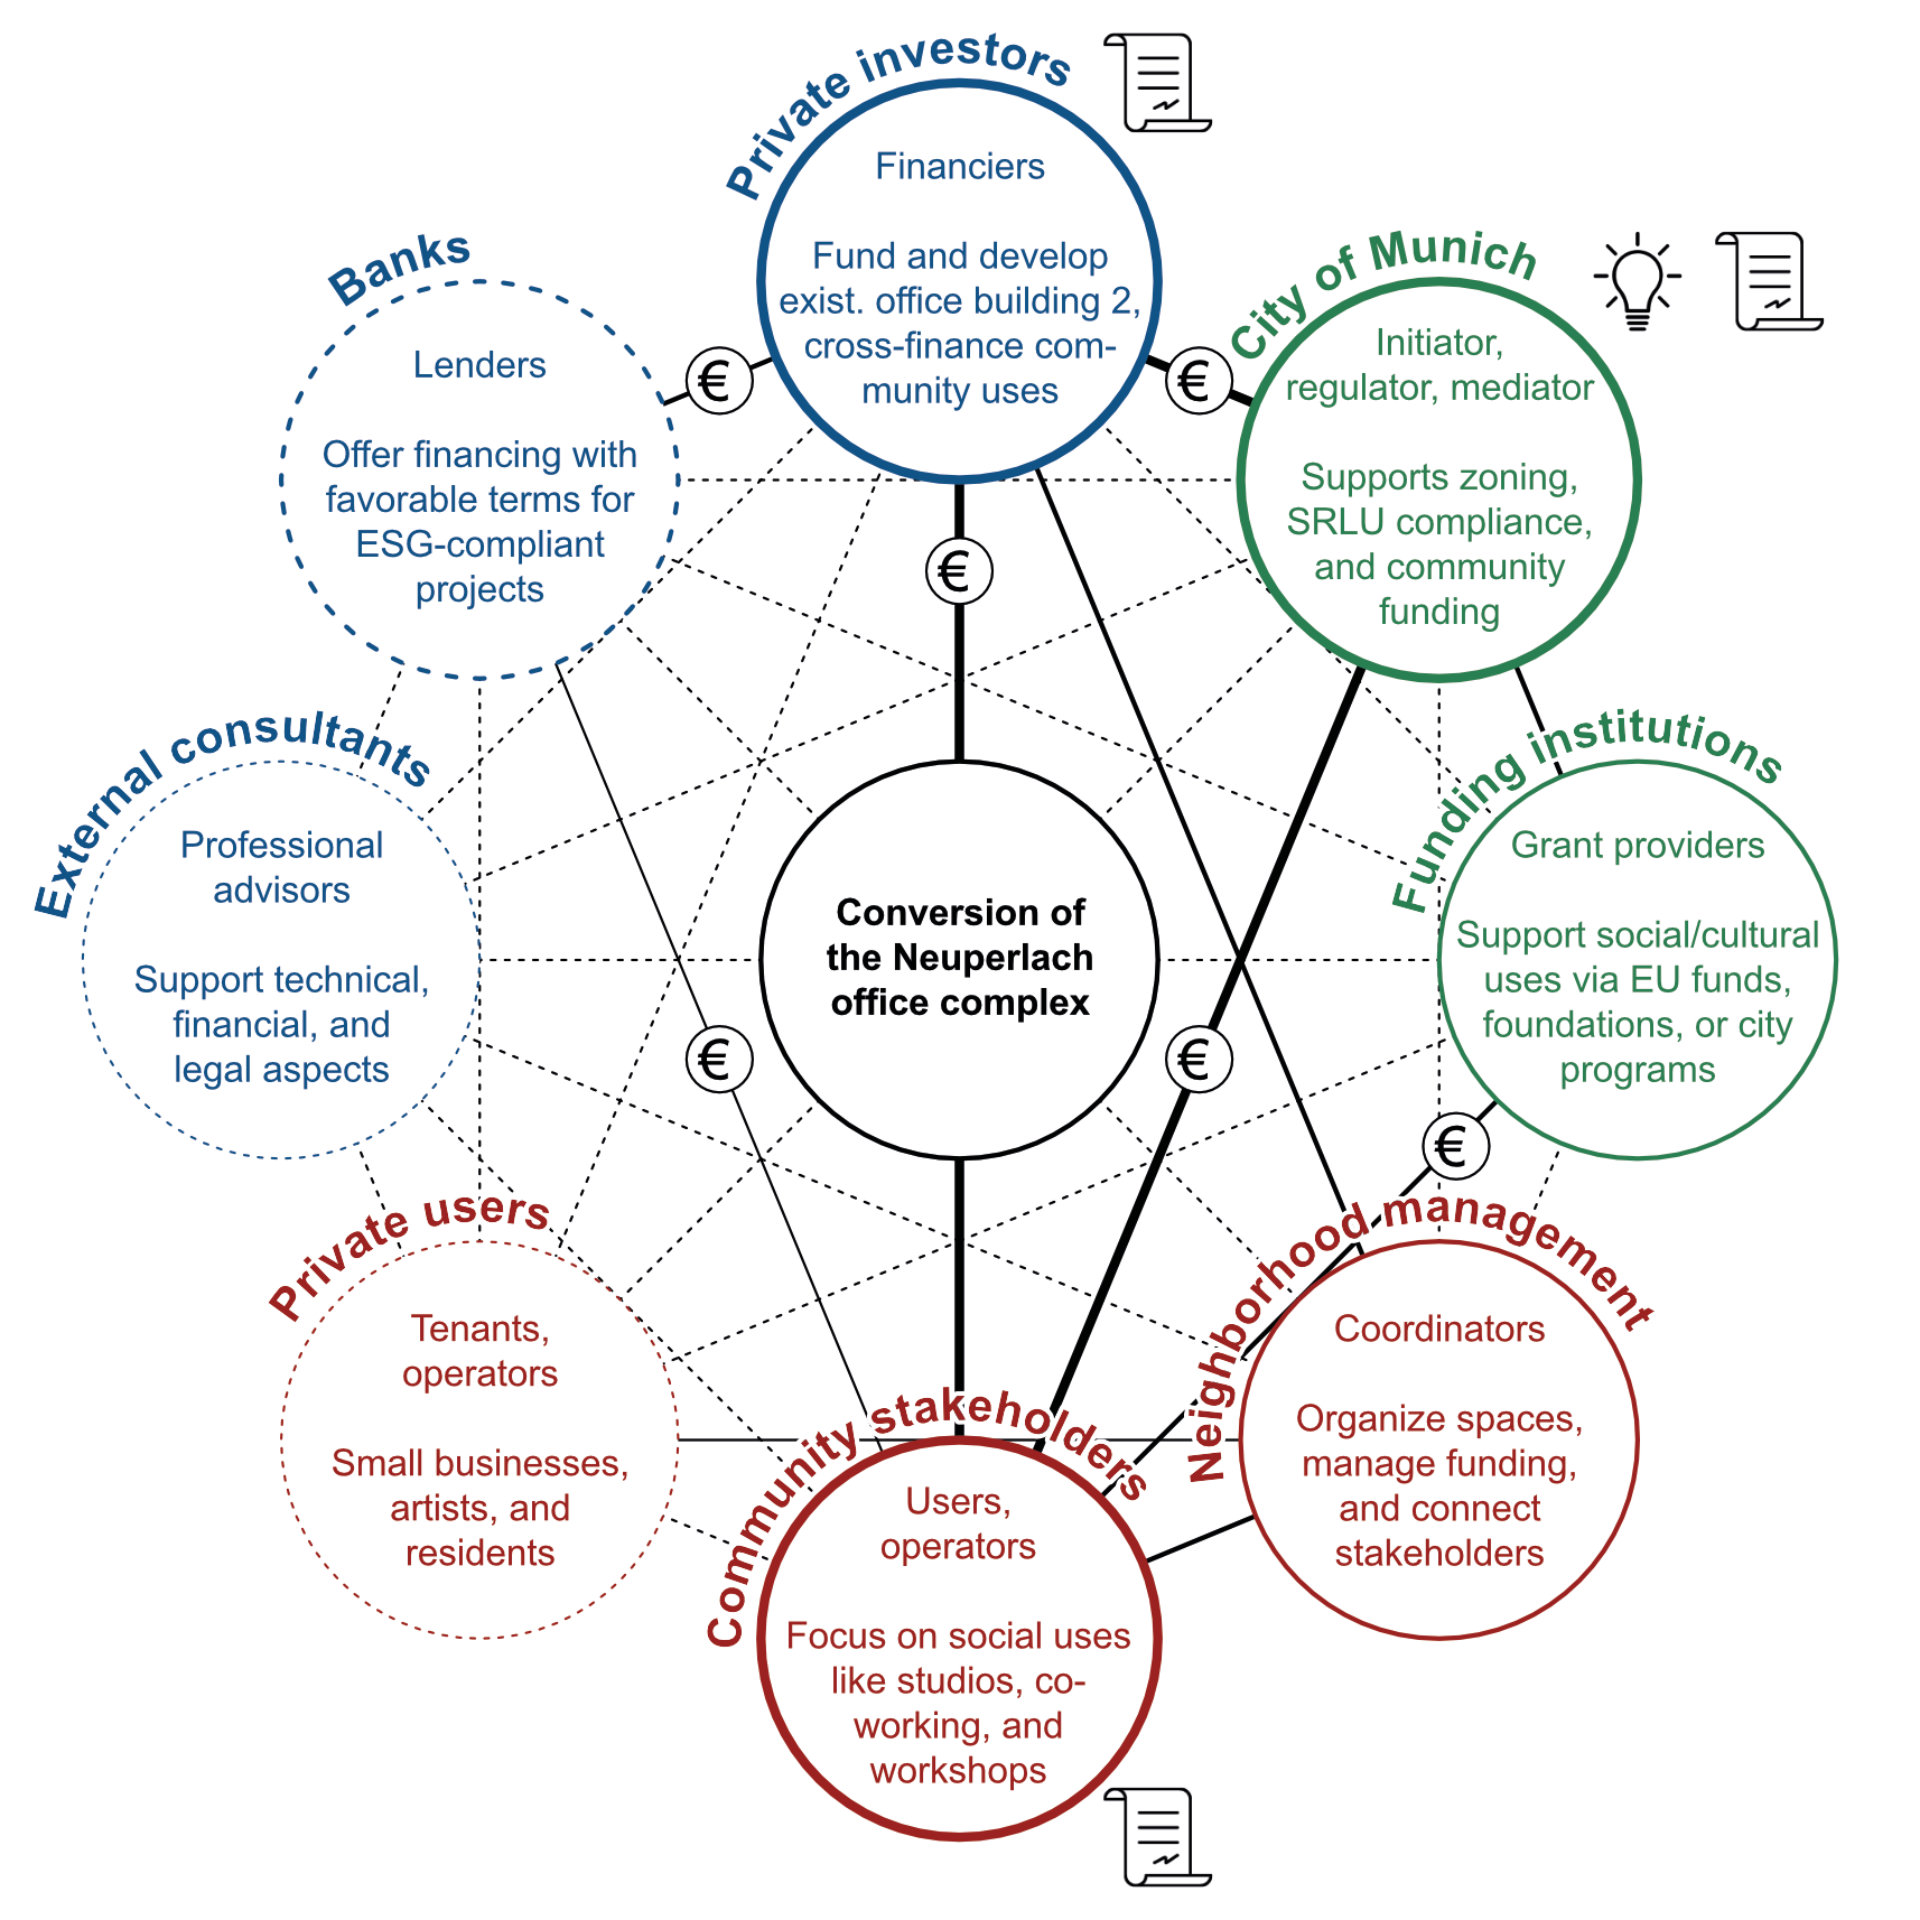
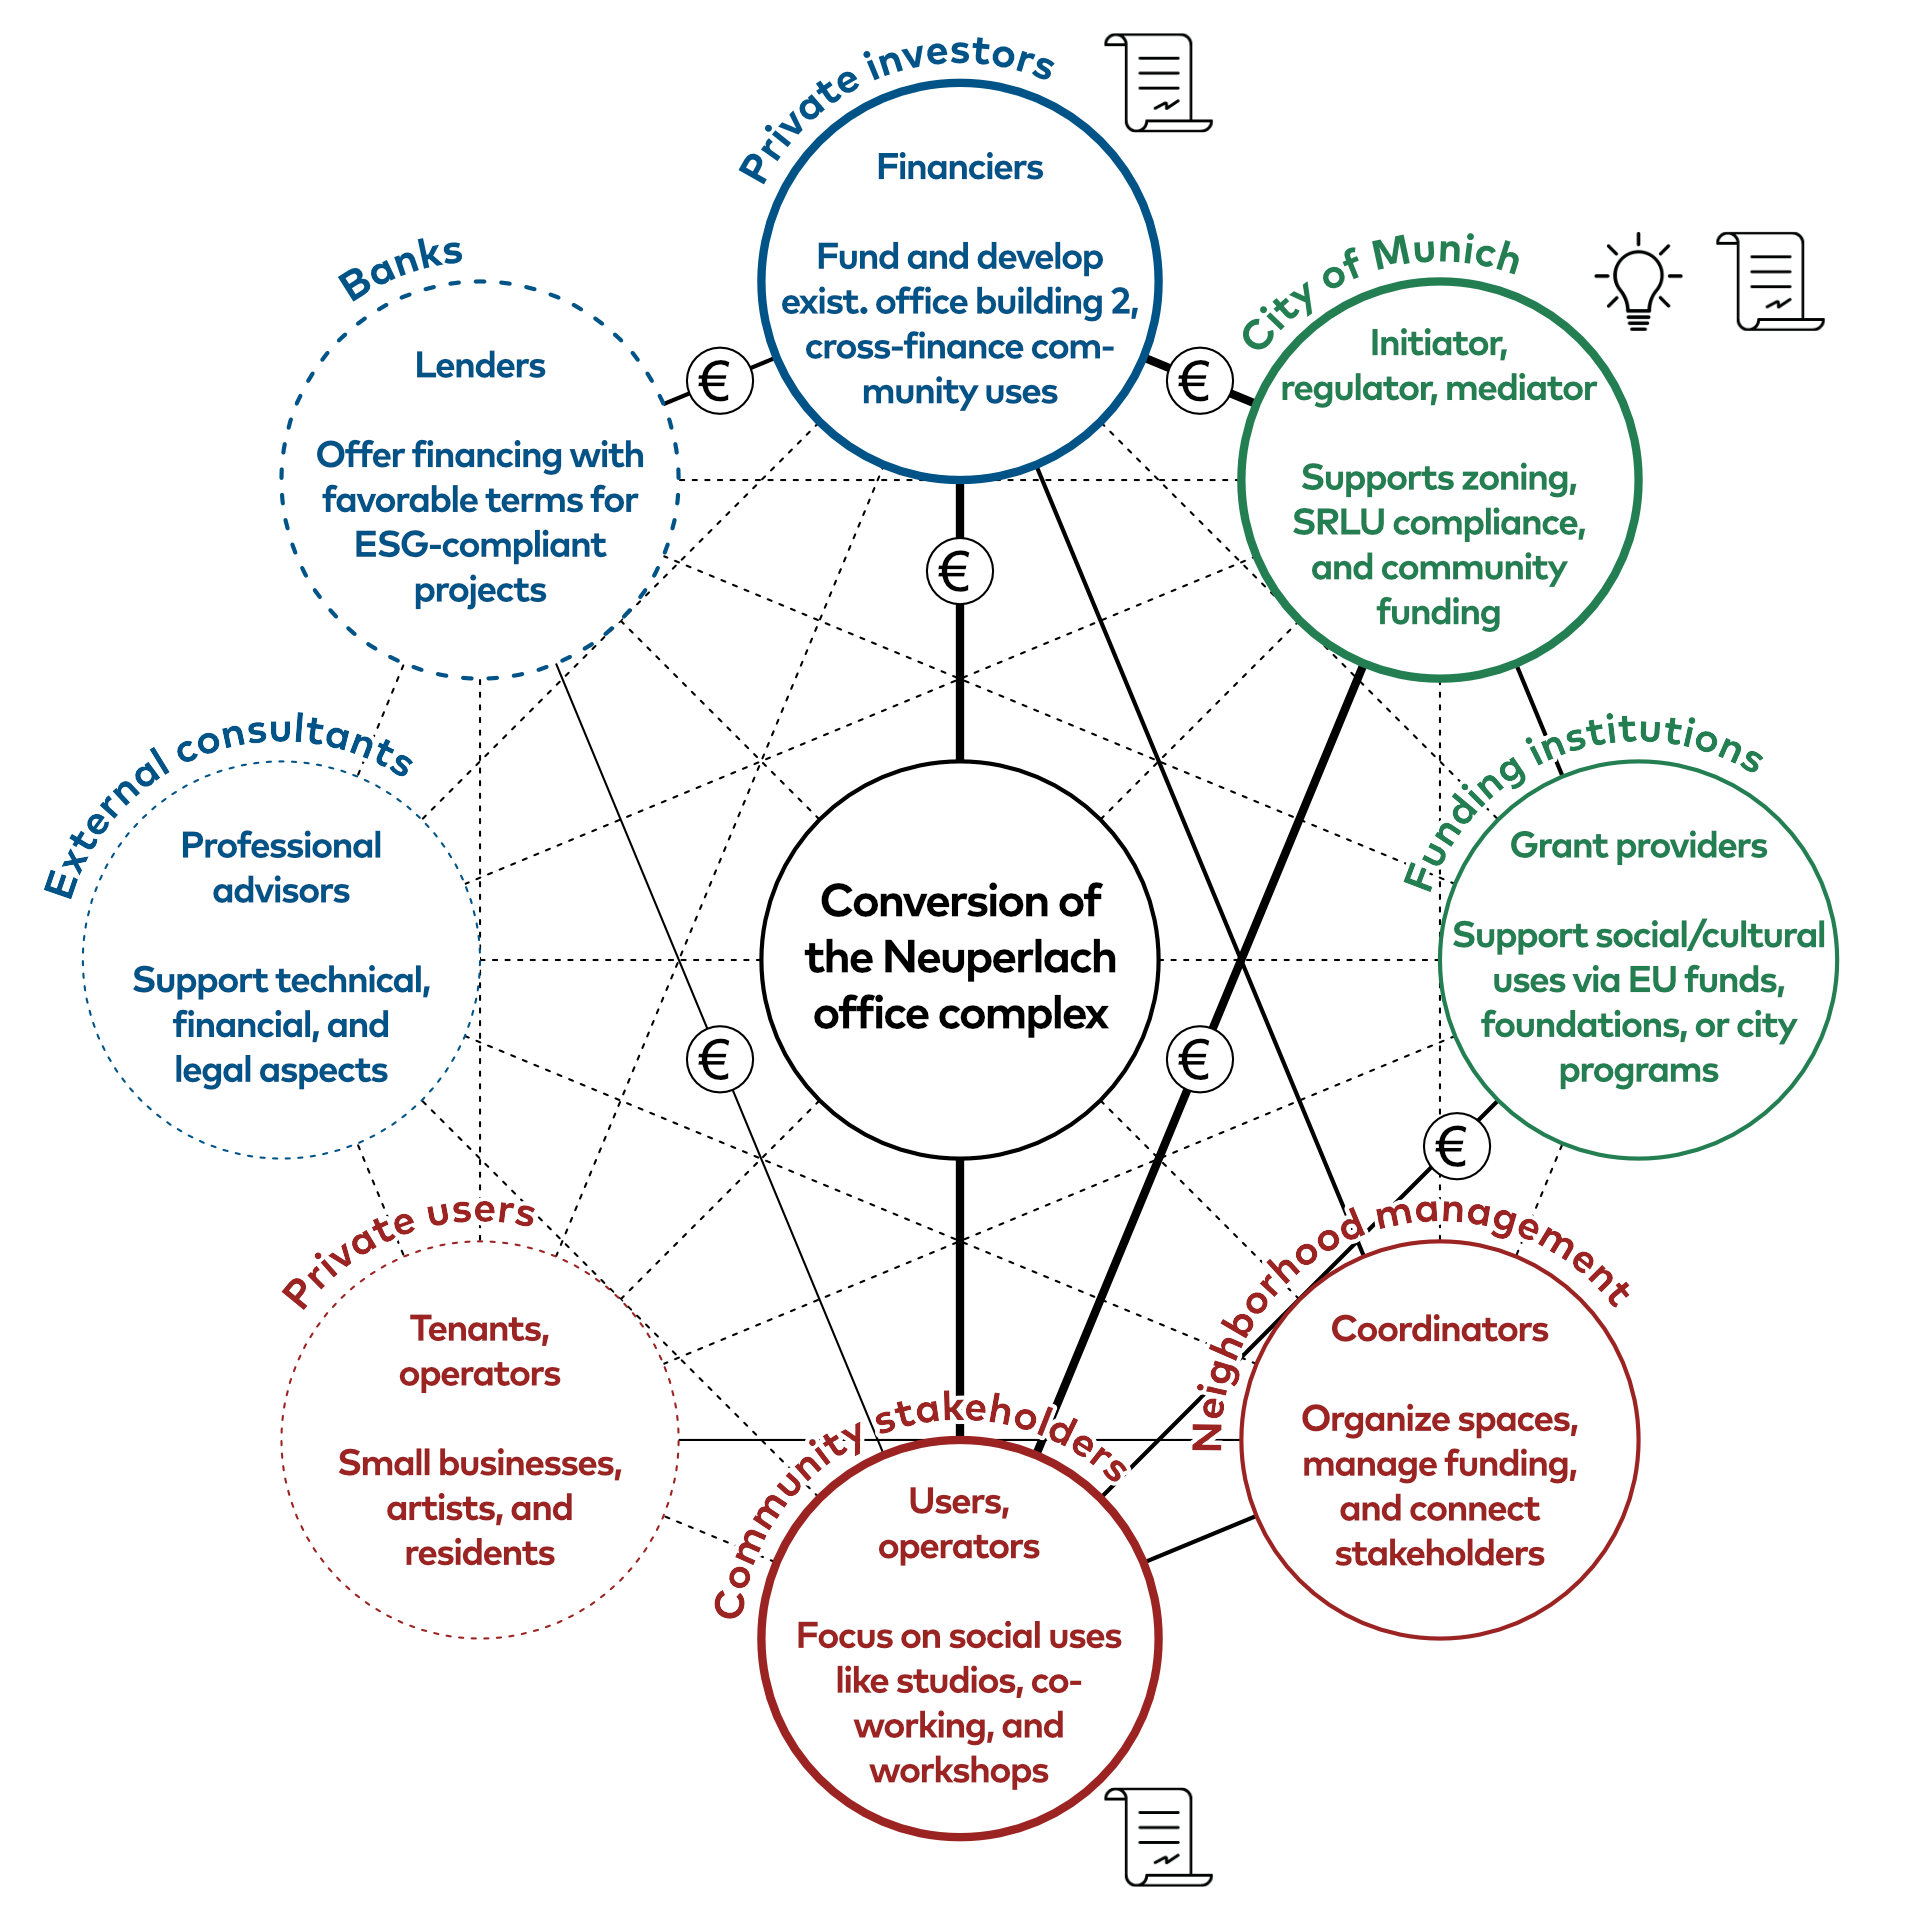
u

diff --git a/msc.html b/msc.html
@@ -38,23 +38,26 @@
                 </h3>
                 <section>
                     <p>
-                        ⬤ Adaptive Reuse (Umnutzung) trägt zu den dringlichsten EU-Nachhaltigkeitszielen
-                        (Kreislaufwirtschaft, Klimaneutralität, Wohnungsversorgung) entscheidend bei. Diese Studie
-                        untersucht die erfolgreiche Integration verschiedener Stakeholdergruppen anhand ausgewählter
-                        europäischer Fallstudien und eines Expert:innen-Workshops.<br /><br />Die Ergebnisse zeigen
-                        unterschiedliche Prioritäten: Bottom-Up-Projekte tendieren zu bezahlbarem Wohnraum und
-                        Gemeinschaftsflächen, Top-Down-Projekte zu lukrativem Gewerbe mit höheren Standards. Empfohlen
-                        wird daher eine Public-Private-People Partnership mit öffentlicher Förderung, privater
-                        Querfinanzierung und ziviler Aneignung.
+                        ⬤ Adaptive Reuse trägt entscheidend zu den dringlichsten EU-Nachhaltigkeitszielen –
+                        Kreislaufwirtschaft, Klimaneutralität und Wohnungsversorgung – bei. Die Masterarbeit im Rahmen
+                        des EU-Projekts Creating NEBourhoods Together analysiert die erfolgreiche Integration
+                        verschiedener Stakeholdergruppen mittels Fallstudien und Expert:innen-Workshops.<br /><br />Die Ergebnisse
+                        offenbaren klare Prioritätenunterschiede: Genossenschaften und gemeinnützige Organisationen
+                        priorisieren bezahlbaren Wohnraum sowie Gemeinschaftsräume, private Investoren und kommunale
+                        Eigentümer hingegen lukratives Gewerbe mit höheren Gebäudestandards.<br /><br />Eine
+                        Public-Private-People-Partnership (PPPP) vereint öffentliche Förderung, private Querfinanzierung
+                        und zivile Aneignung für nachhaltige Transformation.
                     </p>
                     <p class="english">
-                        ⬤ Adaptive Reuse makes a decisive contribution to the most pressing EU sustainability goals
-                        (circular economy, climate neutrality, housing supply). This study examines the successful
-                        integration of diverse stakeholder groups through selected European case studies and an expert
-                        workshop.<br /><br />The results reveal divergent priorities: bottom-up projects tend toward
-                        affordable housing and community spaces, while top-down projects prioritize lucrative commercial
-                        uses with higher standards. Therefore, a public-private-people partnership is recommended,
-                        combining public funding, private cross-financing, and civic appropriation.
+                        ⬤ Adaptive reuse makes a decisive contribution to the EU's most pressing sustainability
+                        goals—circular economy, climate neutrality, and housing provision. The master's thesis written
+                        as part of the EU project Creating NEBourhoods Together analyzes the successful integration of
+                        various stakeholder groups using case studies and expert workshops.<br /><br />The results
+                        reveal clear differences in priorities: cooperatives and non-profit organizations prioritize
+                        affordable housing and community spaces, while private investors and municipal owners prioritize
+                        lucrative commercial properties with higher building standards.<br /><br />A
+                        public-private-people partnership (PPPP) combines public funding, private cross-financing, and
+                        civic appropriation for sustainable transformation.
                     </p>
                     <p><sec font-weight: bold>Betreuung</sec><br />Dipl.-Ing. J. Staudt<br />Dipl.-Ing. C. Schade</p>
                     <a

diff --git a/num.html b/num.html
@@ -100,7 +100,7 @@
             <footer>
                 <div class="nested">
                     <section>
-                        <a href="klimadesign.html"><img src="back.png" /></a> <!-- href="javascript:history.back()" -->
+                        <a href="javascript:history.back()"><img src="back.png" /></a>
                         <a href="mailto:josef.rott96@gmail.com"><img src="mail.png" /></a>
                         <a href="https://www.linkedin.com/in/josef-rott-a17b16217/"><img src="linkedin.png" /></a>
                     </section>
